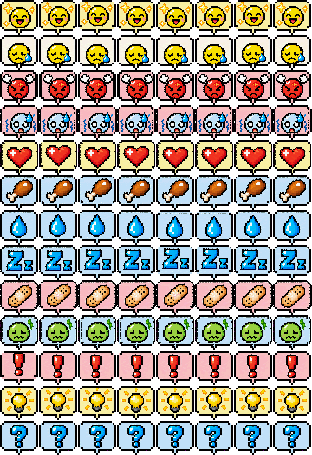
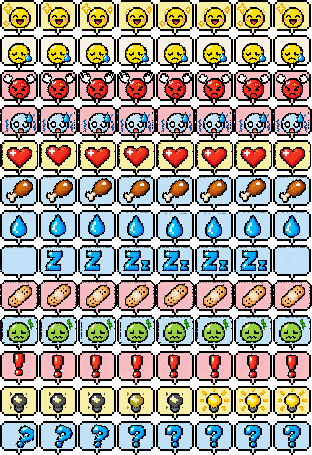
Emotes: only what is inside the bubble animates; sparkles twinkle, tear drips, steam billows, Zz appear in turn, bulb lights up, ? swings into place
Claude-Session: https://claude.ai/code/session_014xWrqmw1tDuMEr3xW9Kw6Z

diff --git a/tools/art/emote_anim.py b/tools/art/emote_anim.py
@@ -1,27 +1,25 @@
 #!/usr/bin/env python3
-"""Cut ChatGPT's emote sheet (read at its own pixel grid) into 13 bubbles and give each a small looping animation:
-the icon inside the bubble moves by whole pixels (bob, shake, wobble, pulse, float, drip); the bubble stays still.
-    python3 tools/art/emote_anim.py <read.png> <out_dir>  -> emotes.png (13 strips stacked, 8 frames each), emotes.json, emotes.gif"""
-import sys, json, os
+"""Cut ChatGPT's emote sheet (read at its own pixel grid) into 13 bubbles and animate what is INSIDE each bubble; the bubble
+itself never moves. Every change is whole pixels from the drawing itself (nothing rescaled):
+  happy: the sparkles twinkle in turn and the face's shine glints   sad: drops fall from the tear
+  angry: the steam puffs billow up                                   tired: the big Z appears, then the small z, then both stay
+  idea: the bulb starts dark (no rays), flickers, then lights up     question: the ? swings in from an angle and settles upright
+  the others: the icon bobs, shakes or wobbles inside the bubble.
+    python3 tools/art/emote_anim.py <read.png> <out_dir>  -> emotes.png (one row of 8 frames per emote), emotes.json"""
+import sys, json, os, math
 from collections import deque, Counter
 from PIL import Image
 
 NAMES = ['happy', 'sad', 'angry', 'scared', 'love', 'hungry', 'thirsty', 'tired', 'hurt', 'sick', 'alert', 'idea', 'question']
 N = 8
-MOVES = {   # per frame (dx, dy) of the icon
-    'happy':    [(0, 0), (0, -1), (0, -2), (0, -1), (0, 0), (0, -1), (0, -2), (0, -1)],
-    'sad':      [(0, 0), (0, 0), (0, 1), (0, 1), (0, 1), (0, 1), (0, 0), (0, 0)],
-    'angry':    [(-1, 0), (1, 0), (-1, 0), (1, 0), (0, 0), (0, 0), (0, 0), (0, 0)],
+MOVES = {   # icons that just move inside the bubble: per frame (dx, dy)
     'scared':   [(1, 0), (-1, 0), (1, 0), (-1, 0), (1, 0), (-1, 0), (1, 0), (-1, 0)],
     'love':     [(0, 0), (0, -2), (0, 0), (0, -1), (0, 0), (0, 0), (0, 0), (0, 0)],
     'hungry':   [(0, 0), (1, 0), (1, -1), (0, 0), (0, 0), (-1, 0), (-1, -1), (0, 0)],
     'thirsty':  [(0, 0), (0, -1), (0, -1), (0, 0), (0, 1), (0, 1), (0, 0), (0, 0)],
-    'tired':    [(0, 0), (0, 0), (0, -1), (0, -1), (0, -2), (0, -2), (0, -1), (0, -1)],
     'hurt':     [(0, 0), (0, -1), (0, 0), (0, 0), (0, -1), (0, 0), (0, 0), (0, 0)],
     'sick':     [(0, 0), (0, 0), (1, 0), (1, 0), (0, 0), (0, 0), (-1, 0), (-1, 0)],
     'alert':    [(0, -2), (0, 0), (-1, 0), (1, 0), (-1, 0), (1, 0), (0, 0), (0, 0)],
-    'idea':     [(0, 0), (0, -1), (0, -1), (0, 0), (0, 0), (0, -1), (0, -1), (0, 0)],
-    'question': [(0, 0), (1, 0), (1, 0), (0, 0), (0, 0), (-1, 0), (-1, 0), (0, 0)],
 }
 
 def cells(im):
@@ -41,36 +39,122 @@ def cells(im):
     out.sort(key=lambda b: (b[1] // 20, b[0]))
     return [im.crop(b) for b in out]
 
-def animate(c, moves):
-    p = c.load(); W, H = c.size
-    dark = lambda q: q[3] and max(q[:3]) < 70
-    # bubble box: rows/cols of the outline; the box bottom is the last row that is mostly dark
-    rows = [y for y in range(H) if sum(dark(p[x, y]) for x in range(W)) > W * .6]
-    top, bot = rows[0], rows[-1]
-    cols = [x for x in range(W) if sum(dark(p[x, y]) for y in range(top, bot + 1)) > (bot - top) * .6]
-    left, right = cols[0], cols[-1]
-    inner = [(x, y) for x in range(left + 2, right - 1) for y in range(top + 2, bot - 1)]
-    fill = Counter(p[x, y] for (x, y) in inner).most_common(1)[0][0]
-    def differs(q): return q[3] and sum(abs(q[i] - fill[i]) for i in range(3)) > 40
-    icon = {(x, y): p[x, y] for (x, y) in inner if differs(p[x, y])}
-    frames = []
-    for dx, dy in moves:
-        o = c.copy(); op = o.load()
-        for (x, y) in icon: op[x, y] = fill
-        for (x, y), col in icon.items():
-            X, Y = x + dx, y + dy
-            if left + 2 <= X < right - 1 and top + 2 <= Y < bot - 1: op[X, Y] = col
-        frames.append(o)
-    return frames
+class Cell:
+    def __init__(self, c):
+        self.c = c; p = c.load(); W, H = c.size; self.W, self.H = W, H
+        dark = lambda q: q[3] and max(q[:3]) < 70
+        rows = [y for y in range(H) if sum(dark(p[x, y]) for x in range(W)) > W * .6]
+        self.top, self.bot = rows[0], rows[-1]
+        self.inside = lambda x, y: 2 <= x <= W - 3 and self.top + 2 <= y <= self.bot - 2
+        self.fill = Counter(p[x, y] for x in (3, 4, 5, W - 4, W - 5) for y in range(8, self.bot - 6) if p[x, y][3] and not dark(p[x, y])).most_common(1)[0][0]
+    def differs(self, q): return q[3] and sum(abs(q[i] - self.fill[i]) for i in range(3)) > 40
+    def pick(self, box, test=None):   # pixels of one element: inside box, not bubble fill
+        p = self.c.load(); x0, y0, x1, y1 = box
+        return {(x, y): p[x, y] for x in range(x0, x1 + 1) for y in range(y0, y1 + 1)
+                if self.inside(x, y) and self.differs(p[x, y]) and (test is None or test(x, y, p[x, y]))}
+    def frame(self, erase=(), draw=()):
+        o = self.c.copy(); op = o.load()
+        for px in erase:
+            for xy in px: op[xy] = self.fill
+        for px, dx, dy in draw:
+            for (x, y), col in px.items():
+                if self.inside(x + dx, y + dy): op[x + dx, y + dy] = col
+        return o
+
+def happy(C):
+    face = lambda x, y, q: (x - 19.5) ** 2 + (y - 17) ** 2 > 12.5 ** 2   # sparkles sit outside the face disc
+    sp = [C.pick((2, 2, 13, 14), face), C.pick((27, 4, 35, 15), face), C.pick((2, 19, 11, 28), face)]
+    shine = C.pick((11, 8, 16, 13), lambda x, y, q: min(q[:3]) > 220)
+    face_col = C.c.load()[18, 18]
+    on = [[1, 1, 1, 0, 0, 0, 1, 1], [0, 0, 1, 1, 1, 1, 0, 0], [1, 0, 0, 0, 1, 1, 1, 0]]
+    out = []
+    for f in range(N):
+        o = C.frame(erase=[s for s, o_ in zip(sp, on) if not o_[f]]); op = o.load()
+        if f in (4, 5):
+            for xy in shine: op[xy] = face_col   # the shine glints off for a moment
+        out.append(o)
+    return out
+
+def sad(C):
+    tear = C.pick((22, 15, 31, 26), lambda x, y, q: q[2] > q[0] + 60)
+    bx = max(x for x, _ in tear); by = max(y for _, y in tear); cx = round(sum(x for x, _ in tear) / len(tear))
+    DROP = {(cx, 0): (40, 170, 250, 255), (cx + 1, 0): (20, 120, 230, 255), (cx, 1): (20, 120, 230, 255), (cx + 1, 1): (10, 70, 170, 255)}
+    out = []
+    for f in range(N):
+        o = C.frame(); op = o.load(); k = f - 2
+        if 0 <= k <= 3:
+            for (x, y), col in DROP.items():
+                X, Y = x, by + 1 + k * 2 + y
+                if C.inside(X, Y): op[X, Y] = col
+        out.append(o)
+    return out
+
+def angry(C):
+    puffs = [C.pick((2, 3, 13, 14), lambda x, y, q: min(q[:3]) > 200 or max(q[:3]) < 70 and (x < 9 or y < 9)),
+             C.pick((24, 3, 35, 13), lambda x, y, q: min(q[:3]) > 200 or max(q[:3]) < 70 and (x > 28 or y < 9))]
+    rise = [0, 1, 2, 2, 1, 0, 0, 0]; side = [0, 0, 1, 1, 1, 0, 0, 0]
+    out = []
+    for f in range(N):
+        draws = []
+        for i, pf in enumerate(puffs):
+            sx = -side[f] if i == 0 else side[f]
+            for k in range(1, rise[f] + 1): draws.append(({xy: c for xy, c in pf.items()}, sx * (k > 1), -k))
+        out.append(C.frame(draw=draws + [(pf, 0, 0) for pf in puffs]))
+    return out
+
+def tired(C):
+    big = C.pick((4, 3, 23, 26)); small = C.pick((23, 12, 34, 26))
+    show = [('none',), ('big',), ('big',), ('big', 'small'), ('big', 'small'), ('big', 'small'), ('big', 'small'), ('none',)]   # what is shown in each frame
+    return [C.frame(erase=[e for e, n in ((big, 'big'), (small, 'small')) if n not in s]) for s in show]
+
+def idea(C):
+    p = C.c.load()
+    rays = [C.pick(b) for b in ((15, 1, 20, 5), (5, 4, 11, 10), (24, 4, 31, 10), (2, 11, 8, 16), (27, 11, 34, 16), (5, 19, 12, 25), (24, 19, 31, 25))]
+    bulb = C.pick((10, 6, 26, 26), lambda x, y, q: q[0] > 180 and q[1] > 120 and q[2] < 200)
+    def dim(col, k):   # k = 0 dark .. 1 lit
+        r, g, b, a = col; l = .3 * r + .6 * g + .1 * b; d = (l * .42, l * .42, l * .40)
+        return (round(d[0] + (r - d[0]) * k), round(d[1] + (g - d[1]) * k), round(d[2] + (b - d[2]) * k), a)
+    level = [0, 0, 0, .55, 0, 1, 1, 1]; rays_on = [0, 0, 0, 0, 0, 1, 1, 1]
+    out = []
+    for f in range(N):
+        o = C.frame(erase=[] if rays_on[f] else rays); op = o.load()
+        if level[f] < 1:
+            for xy, col in bulb.items(): op[xy] = dim(col, level[f])
+        out.append(o)
+    return out
+
+def question(C):
+    q = C.pick((9, 2, 28, 27)); xs = [x for x, _ in q]; ys = [y for _, y in q]
+    x0, y0 = min(xs), min(ys); w, h = max(xs) - x0 + 1, max(ys) - y0 + 1
+    g = Image.new('RGBA', (w, h), (0, 0, 0, 0)); gp = g.load()
+    for (x, y), col in q.items(): gp[x - x0, y - y0] = col
+    ang = [32, 22, 12, 4, -3, 0, 0, 0]; px, py = w / 2, h - 2   # swings in around the dot at its foot
+    out = []
+    for f in range(N):
+        o = C.frame(erase=[q]); op = o.load(); a = math.radians(ang[f]); ca, sa = math.cos(a), math.sin(a)
+        for y in range(-4, h + 4):
+            for x in range(-6, w + 6):   # inverse mapping, nearest neighbour: whole pixels only
+                ux, uy = x - px, y - py; sx = round(ca * ux + sa * uy + px); sy = round(-sa * ux + ca * uy + py)
+                if 0 <= sx < w and 0 <= sy < h and gp[sx, sy][3] and C.inside(x + x0, y + y0): op[x + x0, y + y0] = gp[sx, sy]
+        out.append(o)
+    return out
+
+def mover(C, moves):
+    p = C.c.load(); W = C.W
+    corner = lambda x, y: (x < 6 or x > W - 7) and (y < 6 or y > C.bot - 5)
+    icon = {(x, y): p[x, y] for x in range(W) for y in range(C.H) if C.inside(x, y) and not corner(x, y) and C.differs(p[x, y])}
+    return [C.frame(erase=[icon], draw=[(icon, dx, dy)]) for dx, dy in moves]
+
+SPECIAL = {'happy': happy, 'sad': sad, 'angry': angry, 'tired': tired, 'idea': idea, 'question': question}
 
 if __name__ == '__main__':
     src, out = sys.argv[1], sys.argv[2]
     im = Image.open(src).convert('RGBA'); cs = cells(im); assert len(cs) == 13, len(cs)
     cw = max(c.width for c in cs); ch = max(c.height for c in cs)
-    sheet = Image.new('RGBA', (cw * N, ch * len(cs)), (0, 0, 0, 0)); allf = []
+    sheet = Image.new('RGBA', (cw * N, ch * len(cs)), (0, 0, 0, 0))
     for i, (name, c) in enumerate(zip(NAMES, cs)):
-        fr = animate(c, MOVES[name]); allf.append(fr)
+        C = Cell(c); fr = SPECIAL[name](C) if name in SPECIAL else mover(C, MOVES[name])
         for f, im2 in enumerate(fr): sheet.alpha_composite(im2, (f * cw + (cw - c.width) // 2, i * ch + ch - c.height))
     os.makedirs(out, exist_ok=True); sheet.save(os.path.join(out, 'emotes.png'))
-    json.dump({'cell': [cw, ch], 'frames': N, 'ms': 120, 'names': NAMES, 'tail_x': cw // 2}, open(os.path.join(out, 'emotes.json'), 'w'), indent=1)
+    json.dump({'cell': [cw, ch], 'frames': N, 'ms': 140, 'names': NAMES}, open(os.path.join(out, 'emotes.json'), 'w'), indent=1)
     print('cells', len(cs), cw, ch)
